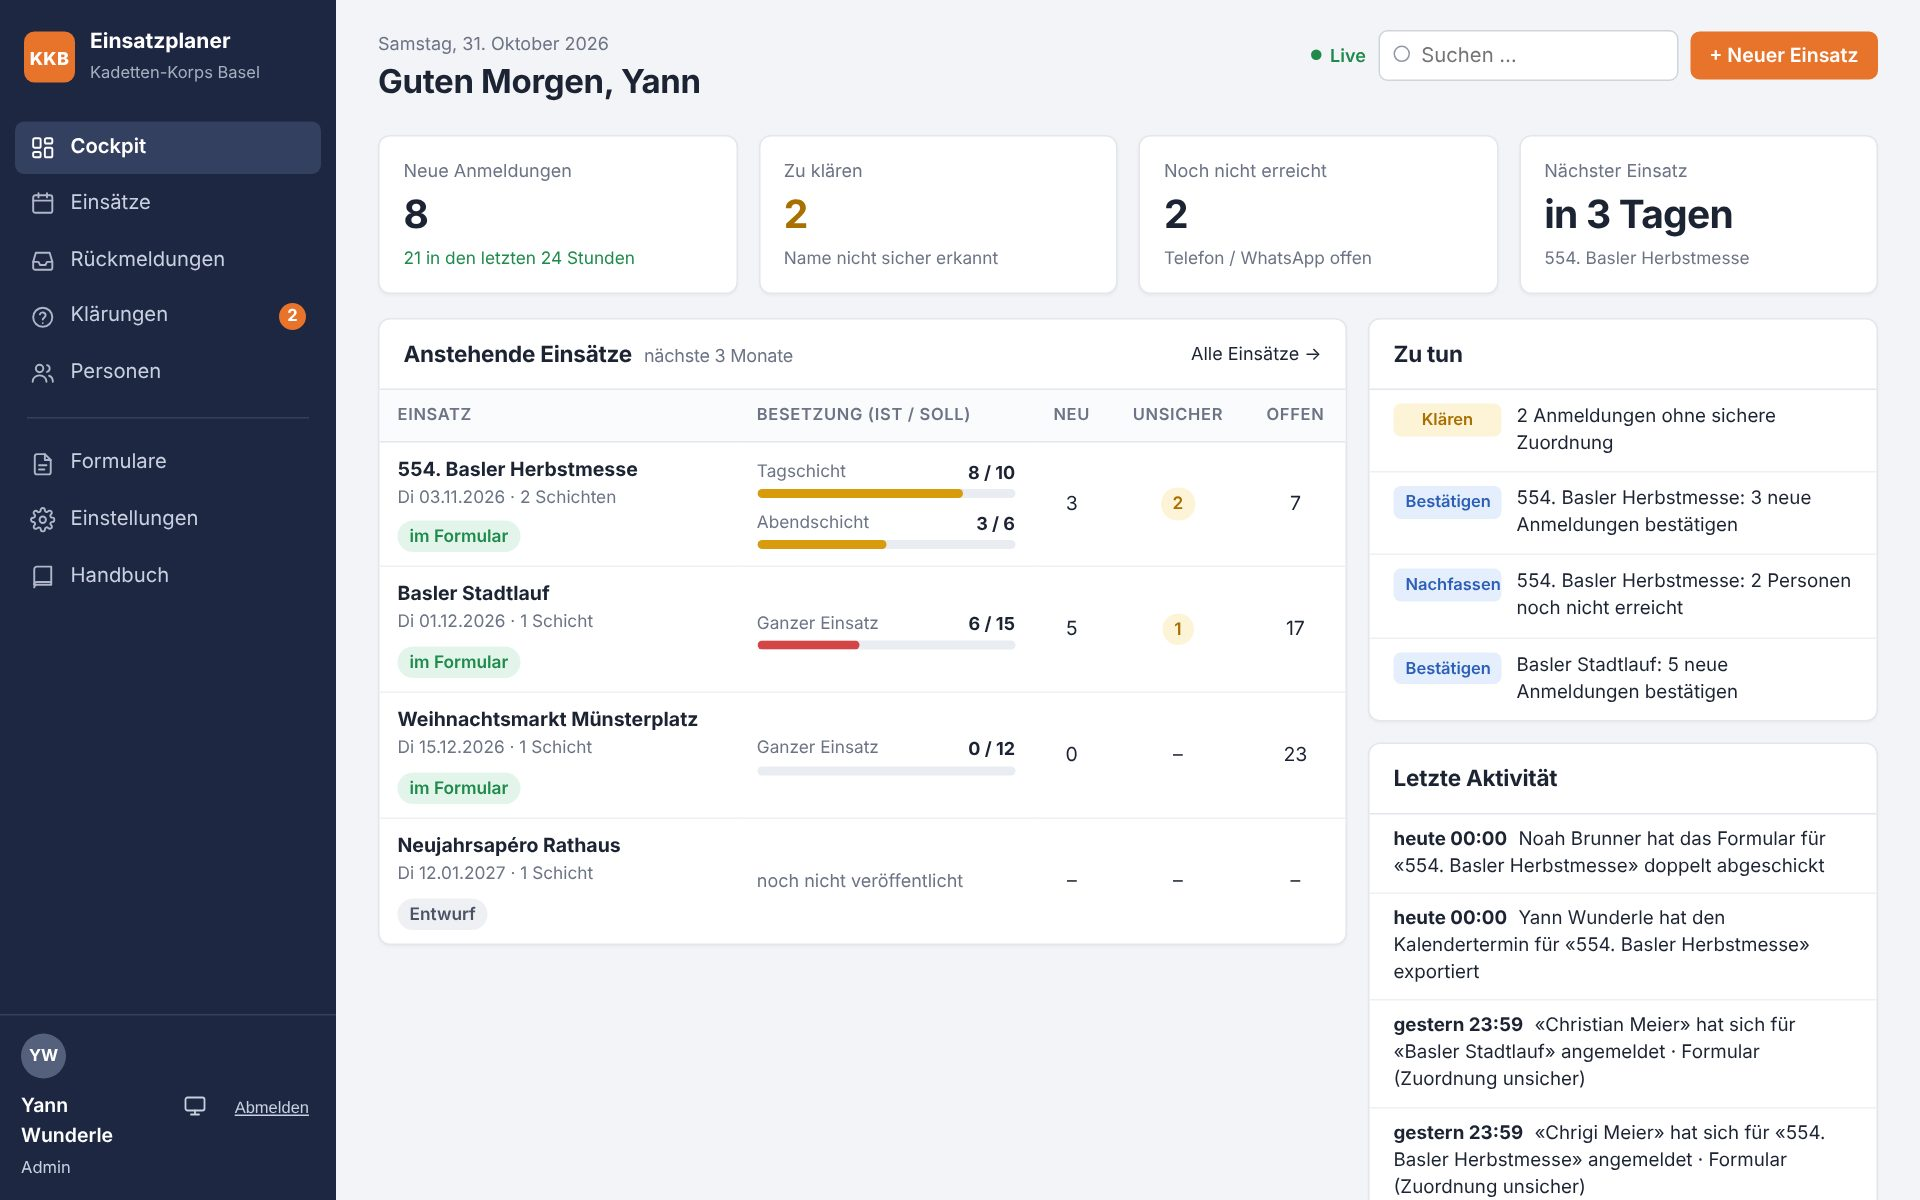
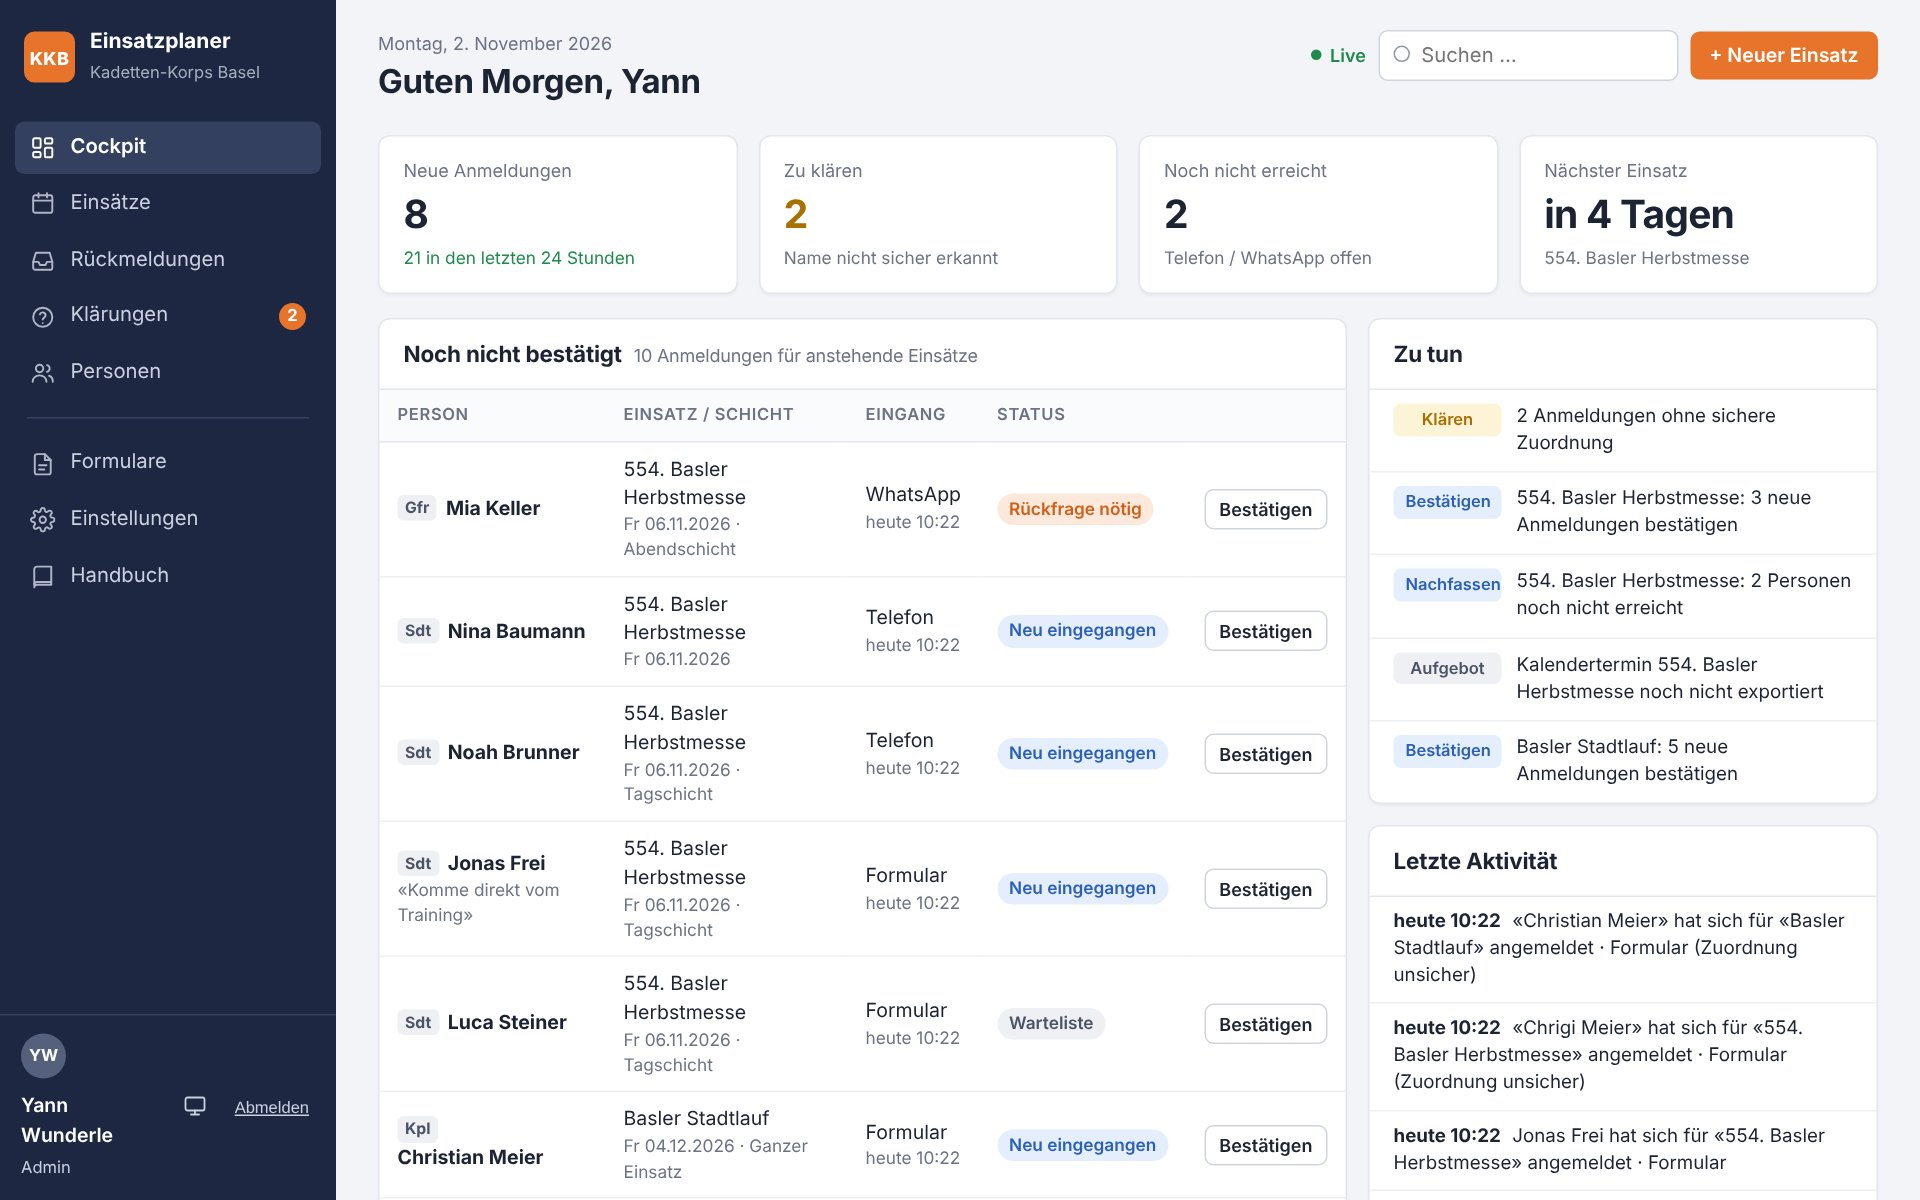
Cockpit: «Noch nicht bestätigt» zuoberst links, «Anstehende Einsätze» direkt darunter
Die Tabelle steht nicht mehr über die volle Breite unter der Aktivität.
Für die schmalere Spalte sind Schicht unter Einsatz und Zeitpunkt unter
Quelle zusammengefasst. Handbuch und Cockpit-Bild nachgeführt.

Claude-Session: https://claude.ai/code/session_01EBemczk1iUwRYUHt6Zp78N

diff --git a/docs/handbuch/handbuch.md b/docs/handbuch/handbuch.md
@@ -101,10 +101,10 @@ Das Cockpit beantwortet jeden Tag die Frage: Was ist zu tun?
 ![Das Cockpit](bilder/02-cockpit.jpg)
 
 - **Kennzahlen:** neue Anmeldungen, unklare Namen, noch nicht erreichte Personen und die Tage bis zum nächsten Einsatz.
-- **Anstehende Einsätze:** Besetzung pro Schicht (Ist / Soll; grün = voll, gelb = teilweise, rot = viele fehlen), dazu wie viele Anmeldungen neu, unsicher oder offen sind. Ein Klick öffnet den Einsatz.
-- **Noch nicht bestätigt:** unten alle Anmeldungen für anstehende Einsätze mit Status «Neu eingegangen», «Rückfrage nötig» oder «Warteliste», nach Einsatz und Rang geordnet, mit Schicht, Quelle und Zeitpunkt. **Bestätigen** bestätigt direkt aus dem Cockpit. Ein Klick auf den Einsatz öffnet die Anmeldung dort.
-- **Zu tun:** konkrete Hinweise, z. B. Anmeldungen bestätigen, Personen nachfassen, ein voller Einsatz, der noch im Formular steht, oder ein Aufgebot, das noch nicht exportiert ist.
-- **Letzte Aktivität:** wer sich wann angemeldet hat, wer wen angefragt und wer was bestätigt hat.
+- **Noch nicht bestätigt:** zuoberst links alle Anmeldungen für anstehende Einsätze mit Status «Neu eingegangen», «Rückfrage nötig» oder «Warteliste», nach Einsatz und Rang geordnet, mit Schicht, Quelle und Zeitpunkt. **Bestätigen** bestätigt direkt aus dem Cockpit. Ein Klick auf den Einsatz öffnet die Anmeldung dort.
+- **Anstehende Einsätze:** direkt darunter die Besetzung pro Schicht (Ist / Soll; grün = voll, gelb = teilweise, rot = viele fehlen), dazu wie viele Anmeldungen neu, unsicher oder offen sind. Ein Klick öffnet den Einsatz.
+- **Zu tun** (rechts): konkrete Hinweise, z. B. Anmeldungen bestätigen, Personen nachfassen, ein voller Einsatz, der noch im Formular steht, oder ein Aufgebot, das noch nicht exportiert ist.
+- **Letzte Aktivität** (rechts, unter «Zu tun»): wer sich wann angemeldet hat, wer wen angefragt und wer was bestätigt hat.
 
 ## 5 · Einen Einsatz anlegen und veröffentlichen
 
